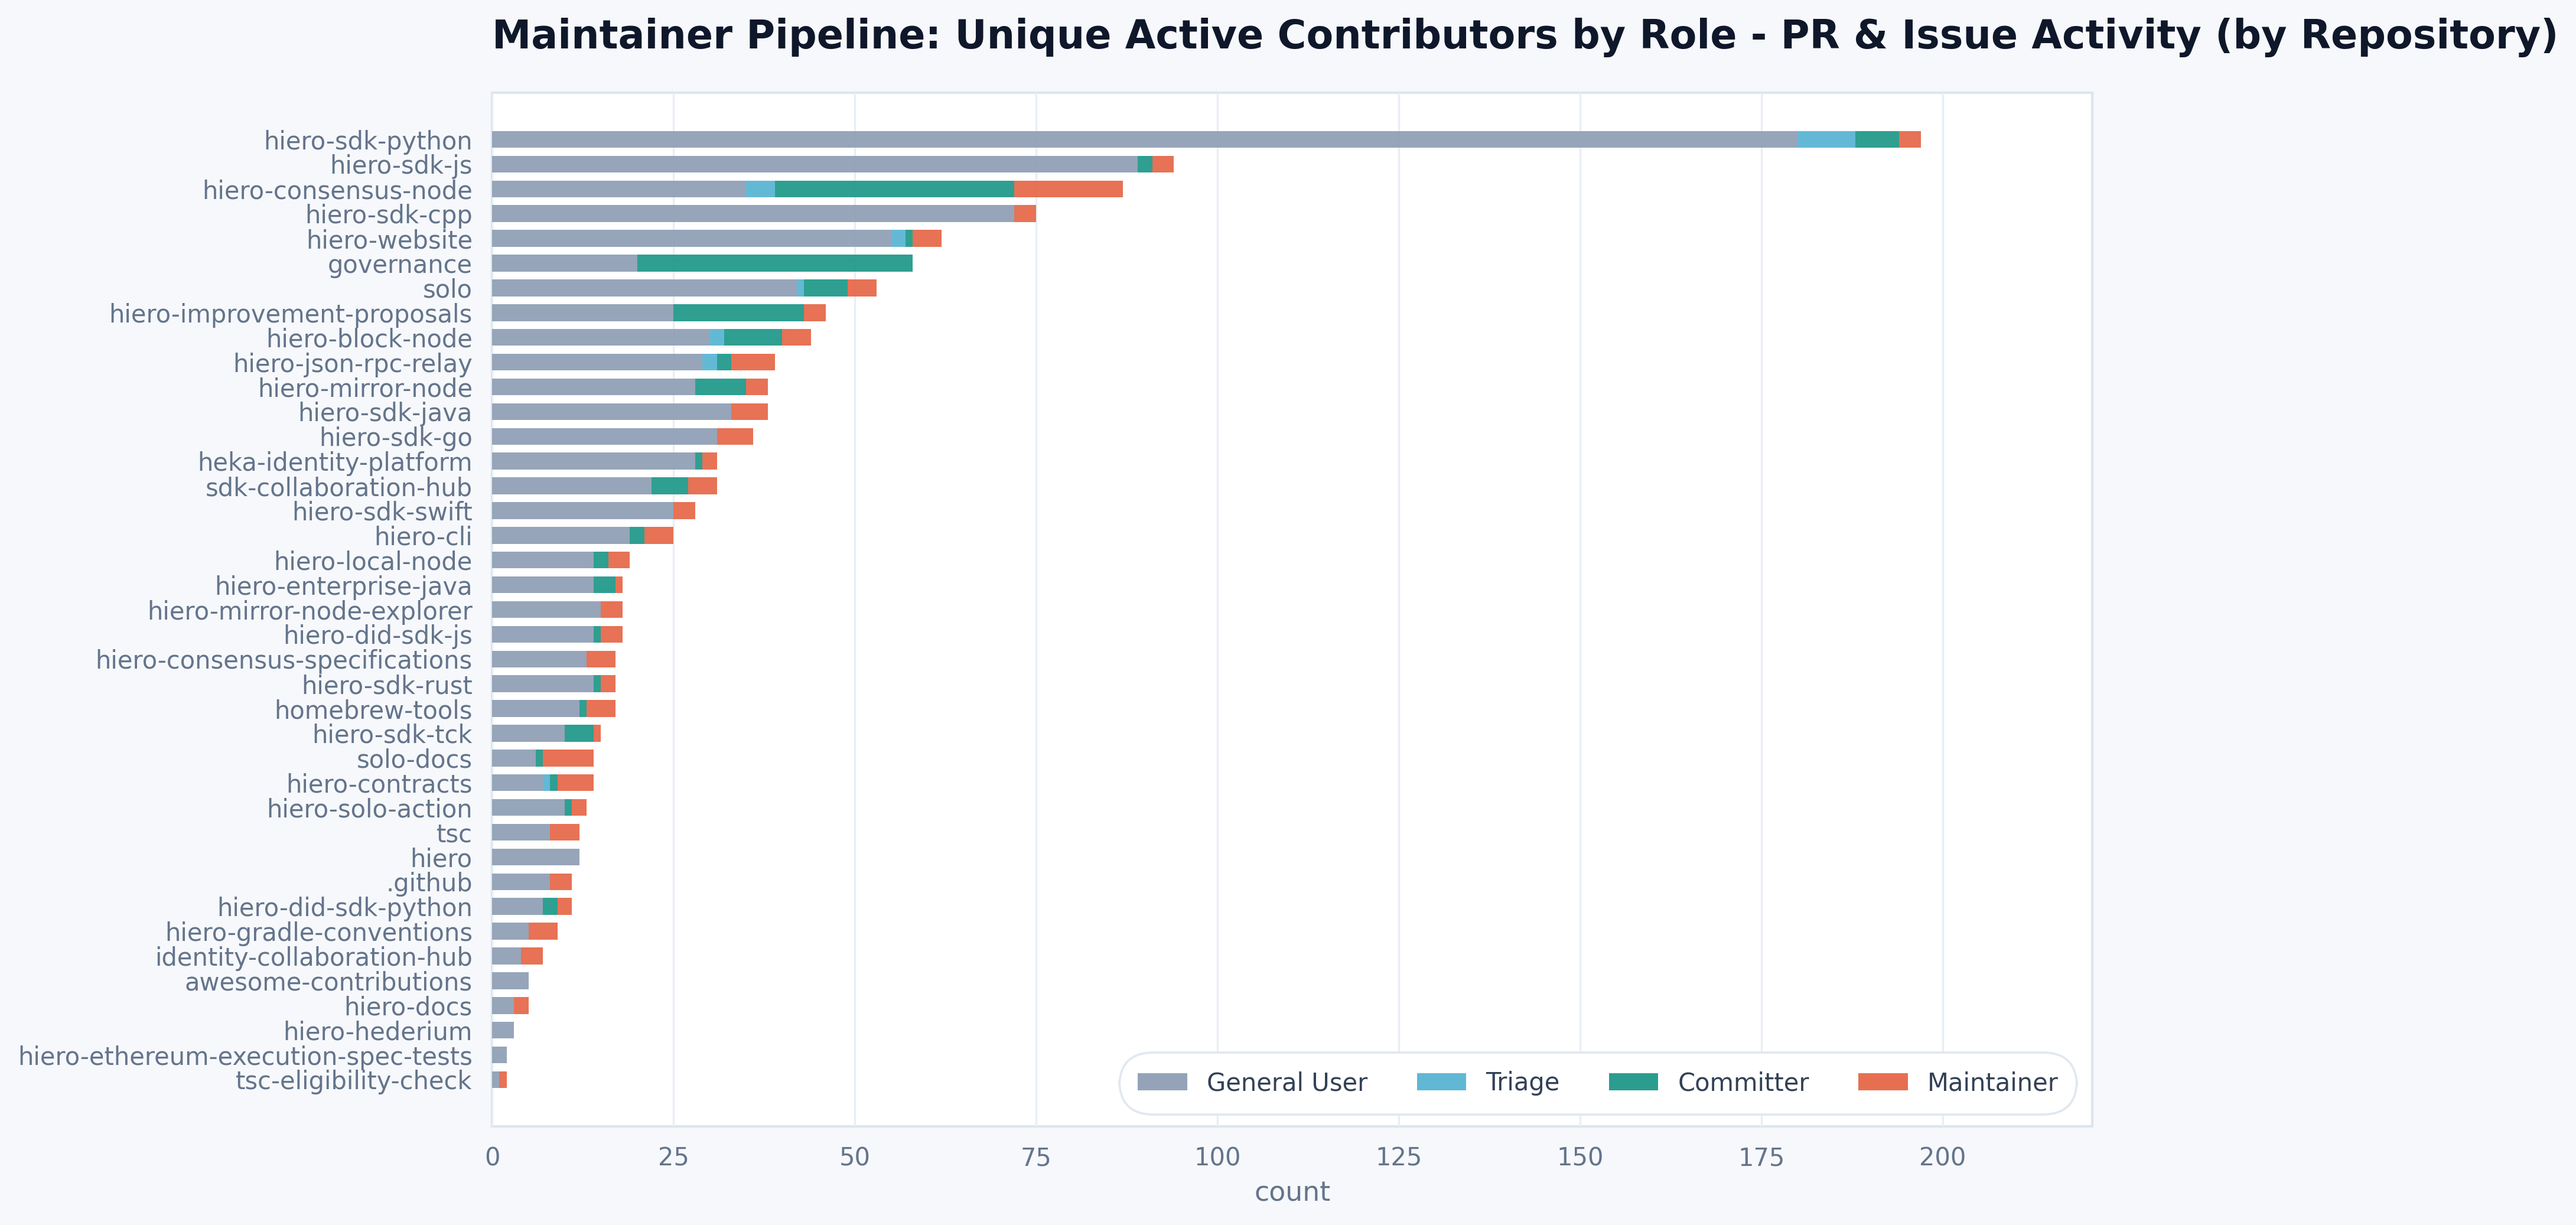
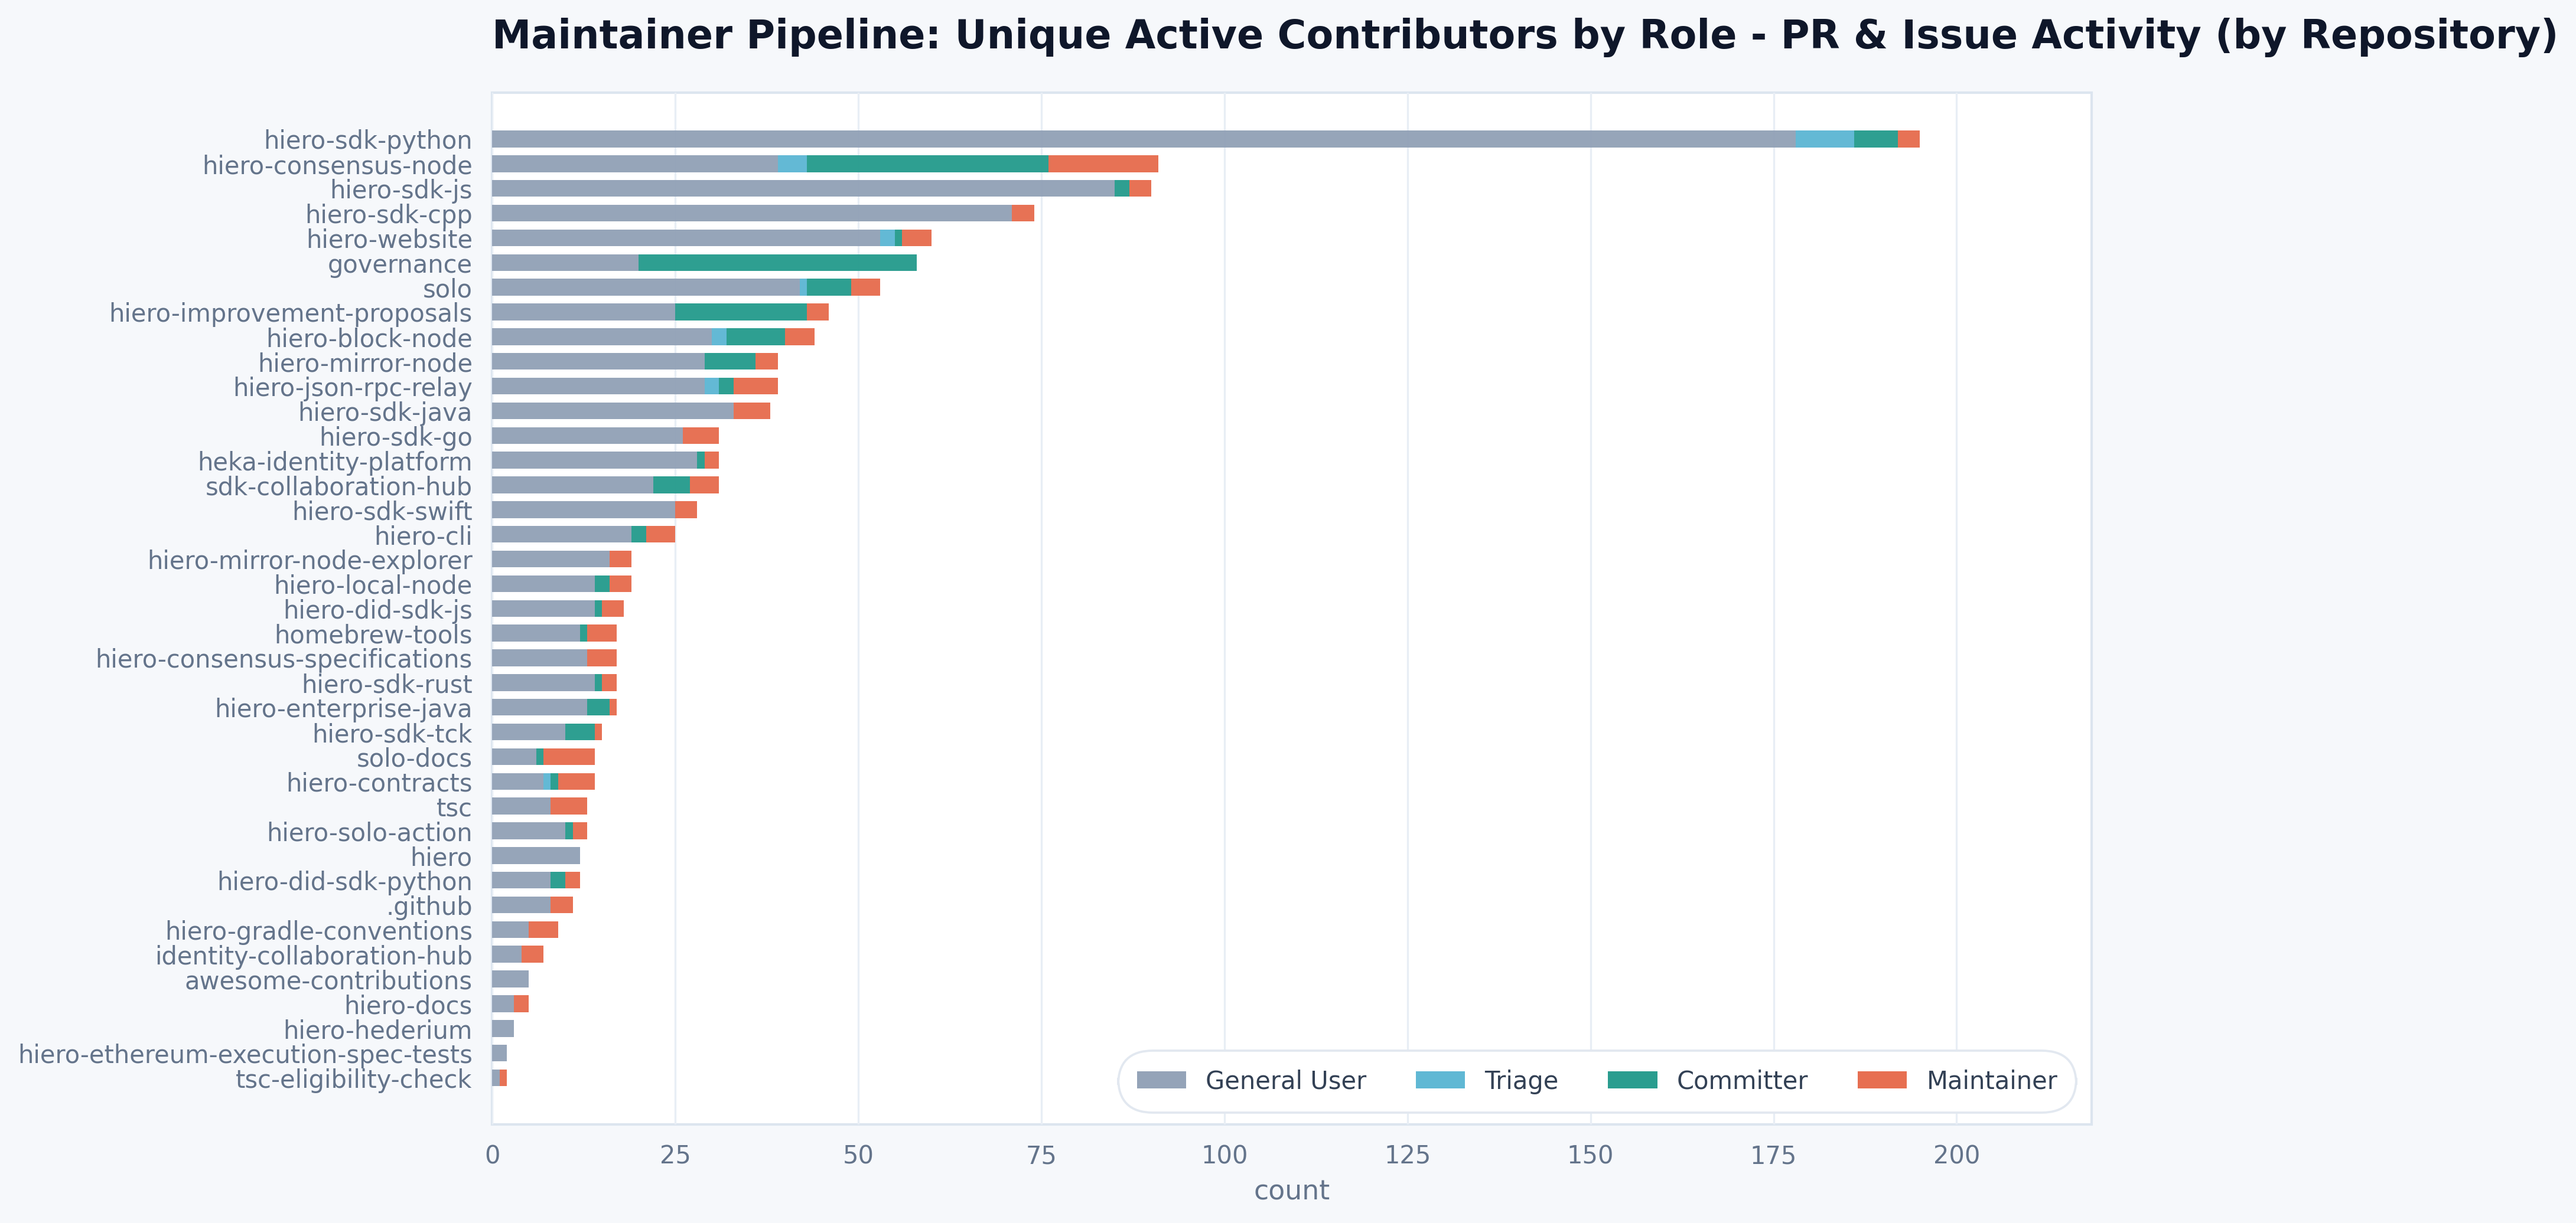
fix: anchor yearly contributor window to H2 and filter repo chart to active contributors
The maintainer pipeline was using a sliding lookback_days=183 window
anchored to datetime.now(). On each refresh the cutoff shifted forward,
causing completed-year contributor counts to shrink over time.

Changes:
- github_ingest: lookback_days=None disables the cutoff so full history
  is fetched for the yearly pipeline
- maintainer_pipeline: _active_window_for_year uses fixed H2 windows
  (Jul 1 - Dec 31) for completed years and a trailing window for the
  current year
- maintainer_pipeline: build_maintainer_repo_pipeline now filters to
  contributors active within trailing 183-day window
- Updated charts regenerated with fix applied

diff --git a/src/hiero_analytics/analysis/maintainer_pipeline.py b/src/hiero_analytics/analysis/maintainer_pipeline.py
@@ -7,6 +7,8 @@ aggregated pipeline tables for yearly and repository-level views.
 
 from __future__ import annotations
 
+from datetime import datetime, timedelta, timezone
+
 import pandas as pd
 
 from hiero_analytics.data_sources.models import ContributorActivityRecord
@@ -25,7 +27,11 @@ def activity_to_role_dataframe(
     records: list[ContributorActivityRecord],
     repo_role_lookup: dict[str, dict[str, str]],
 ) -> pd.DataFrame:
-    """Classify each contributor activity record by governance role."""
+    """Classify each contributor activity record by governance role.
+
+    Includes ``occurred_at`` so downstream aggregations can apply per-year
+    activity windows without re-fetching.
+    """
     rows = []
 
     for record in records:
@@ -36,28 +42,82 @@ def activity_to_role_dataframe(
         actor_key = record.actor.strip().lower()
         role = repo_role_lookup.get(repo_name, {}).get(actor_key, "general_user")
 
+        # Normalize to UTC so downstream window comparisons never hit
+        # a naive-vs-aware mismatch.
+        occurred_at = record.occurred_at
+        if occurred_at.tzinfo is None:
+            occurred_at = occurred_at.replace(tzinfo=timezone.utc)
+        else:
+            occurred_at = occurred_at.astimezone(timezone.utc)
+
         rows.append(
             {
                 "repo": repo_name,
                 "actor": record.actor,
-                "year": record.occurred_at.year,
+                "occurred_at": occurred_at,
+                "year": occurred_at.year,
                 "stage": role,
             }
         )
 
     if not rows:
-        return pd.DataFrame(columns=["repo", "actor", "year", "stage"])
+        return pd.DataFrame(columns=["repo", "actor", "occurred_at", "year", "stage"])
 
     return pd.DataFrame(rows)
 
 
-def build_maintainer_yearly_pipeline(stage_df: pd.DataFrame) -> pd.DataFrame:
-    """Build yearly contributor counts for each observed PR and issue activity stage."""
+def _active_window_for_year(
+    year: int, today: datetime, window_days: int = 183
+) -> tuple[datetime, datetime]:
+    """Return the (start, end) activity window for a given year.
+
+    Completed years use a fixed H2 window (Jul 1 – Dec 31) so historical
+    counts never change on refresh.  The current year uses a trailing
+    ``window_days``-day window ending today.
+    """
+    if year < today.year:
+        # Past year: fixed last-6-months window, immune to re-run date.
+        window_start = datetime(year, 7, 1, tzinfo=timezone.utc)
+        window_end = datetime(year, 12, 31, 23, 59, 59, tzinfo=timezone.utc)
+    else:
+        # Current year: trailing window from today.
+        window_end = today
+        window_start = today - timedelta(days=window_days)
+
+    return window_start, window_end
+
+
+def build_maintainer_yearly_pipeline(
+    stage_df: pd.DataFrame,
+    *,
+    active_window_days: int = 183,
+) -> pd.DataFrame:
+    """Build yearly contributor counts per PR and issue activity stage.
+
+    Only counts contributors active in the last 6 months of each year.
+    Past years use a fixed H2 window (stable across refreshes); the current
+    year uses a trailing ``active_window_days``-day window from today.
+    """
     if stage_df.empty:
         return pd.DataFrame(columns=["year", *STAGE_COLUMNS])
 
+    today = datetime.now(timezone.utc)
+    years = stage_df["year"].unique()
+
+    filtered_frames: list[pd.DataFrame] = []
+    for year in sorted(years):
+        window_start, window_end = _active_window_for_year(year, today, active_window_days)
+        mask = (
+            (stage_df["year"] == year)
+            & (stage_df["occurred_at"] >= window_start)
+            & (stage_df["occurred_at"] <= window_end)
+        )
+        filtered_frames.append(stage_df.loc[mask])
+
+    active_df = pd.concat(filtered_frames, ignore_index=True) if filtered_frames else stage_df.iloc[0:0]
+
     yearly = (
-        stage_df.groupby(["year", "stage"])["actor"]
+        active_df.groupby(["year", "stage"])["actor"]
         .nunique()
         .unstack(fill_value=0)
         .reindex(columns=STAGE_COLUMNS, fill_value=0)
@@ -68,13 +128,28 @@ def build_maintainer_yearly_pipeline(stage_df: pd.DataFrame) -> pd.DataFrame:
     return yearly.astype({column: int for column in STAGE_COLUMNS})
 
 
-def build_maintainer_repo_pipeline(stage_df: pd.DataFrame) -> pd.DataFrame:
-    """Build repository-level contributor counts for each observed PR and issue activity stage."""
+def build_maintainer_repo_pipeline(
+    stage_df: pd.DataFrame,
+    *,
+    active_window_days: int = 183,
+) -> pd.DataFrame:
+    """Build repository-level active contributor counts per governance stage.
+
+    Only counts contributors active within the trailing ``active_window_days``
+    window ending today, so the chart reflects current engagement rather than
+    all-time history.
+    """
     if stage_df.empty:
         return pd.DataFrame(columns=["repo", *STAGE_COLUMNS])
 
+    cutoff = datetime.now(timezone.utc) - timedelta(days=active_window_days)
+    active_df = stage_df[stage_df["occurred_at"] >= cutoff]
+
+    if active_df.empty:
+        return pd.DataFrame(columns=["repo", *STAGE_COLUMNS])
+
     by_repo = (
-        stage_df.groupby(["repo", "stage"])["actor"]
+        active_df.groupby(["repo", "stage"])["actor"]
         .nunique()
         .unstack(fill_value=0)
         .reindex(columns=STAGE_COLUMNS, fill_value=0)

diff --git a/src/hiero_analytics/data_sources/github_ingest.py b/src/hiero_analytics/data_sources/github_ingest.py
@@ -573,7 +573,7 @@ def _fetch_repo_pull_request_activity_graphql(
     client: GitHubClient,
     owner: str,
     repo: str,
-    cutoff: datetime,
+    cutoff: datetime | None,
 ) -> list[ContributorActivityRecord]:
     """Fetch contributor activity signals from pull request lifecycle data."""
     contributor_activity_query = load_query("contributor_activity")
@@ -600,7 +600,7 @@ def _fetch_repo_issue_activity_graphql(
     client: GitHubClient,
     owner: str,
     repo: str,
-    cutoff: datetime,
+    cutoff: datetime | None,
 ) -> list[ContributorActivityRecord]:
     """Fetch contributor activity signals from recently opened issues."""
     contributor_issue_activity_query = load_query("contributor_issue_activity")
@@ -618,7 +618,7 @@ def _fetch_repo_issue_activity_graphql(
 
         for node in nodes:
             created_at = _parse_graphql_datetime(node.get("createdAt"))
-            if created_at is not None and created_at < cutoff:
+            if cutoff is not None and created_at is not None and created_at < cutoff:
                 page_has_older_issues = True
 
             records.extend(
@@ -643,7 +643,7 @@ def fetch_repo_contributor_activity_graphql(
     owner: str,
     repo: str,
     *,
-    lookback_days: int = 183,
+    lookback_days: int | None = 183,
     use_cache: bool | None = None,
     cache_ttl_seconds: int | None = None,
     refresh: bool = False
@@ -653,6 +653,9 @@ def fetch_repo_contributor_activity_graphql(
     Issue activity (issues opened by a contributor) and pull request
     activity (PRs authored, reviewed, or merged) are combined into a
     single stream of ``ContributorActivityRecord`` instances.
+
+    When ``lookback_days`` is *None* all historical activity
+    is returned, which is required for stable yearly aggregate charts.
 
     Signals include:
     - authored_issue (issues opened within the lookback window)
@@ -679,7 +682,11 @@ def fetch_repo_contributor_activity_graphql(
     if cached is not None:
         return cached
 
-    cutoff = datetime.now(UTC) - timedelta(days=lookback_days)
+    cutoff = (
+        datetime.now(UTC) - timedelta(days=lookback_days)
+        if lookback_days is not None
+        else None
+    )
     records = [
         *_fetch_repo_pull_request_activity_graphql(client, owner, repo, cutoff),
         *_fetch_repo_issue_activity_graphql(client, owner, repo, cutoff),
@@ -701,12 +708,17 @@ def fetch_org_contributor_activity_graphql(
     max_workers: int = 5,
     *,
     repos: list[str] | None = None,
-    lookback_days: int = 183,
+    lookback_days: int | None = 183,
     use_cache: bool | None = None,
     cache_ttl_seconds: int | None = None,
     refresh: bool = False
     ) -> list[ContributorActivityRecord]:
-    """Fetch contributor activity records across all repositories in an organization."""
+    """Fetch contributor activity records across all repositories in an organization.
+
+    Pass ``lookback_days=None`` to retrieve the full history, which is
+    necessary for yearly aggregation charts where past counts must remain
+    stable across refreshes.
+    """
     def fetch_func(repo):
         """Fetch contributor activity for a repository."""
         return fetch_repo_contributor_activity_graphql(client, repo.owner, repo.name, lookback_days=lookback_days, **_cache_kwargs(use_cache, cache_ttl_seconds, refresh))

diff --git a/src/hiero_analytics/run_maintainer_pipeline_org.py b/src/hiero_analytics/run_maintainer_pipeline_org.py
@@ -29,7 +29,7 @@ def main() -> None:
     repo_role_lookup = build_repo_role_lookup(gov_config)
 
     client = GitHubClient()
-    records = fetch_org_contributor_activity_graphql(client, org=ORG)
+    records = fetch_org_contributor_activity_graphql(client, org=ORG, lookback_days=None)
 
     print(f"Fetched {len(records)} contributor activity records")
 
